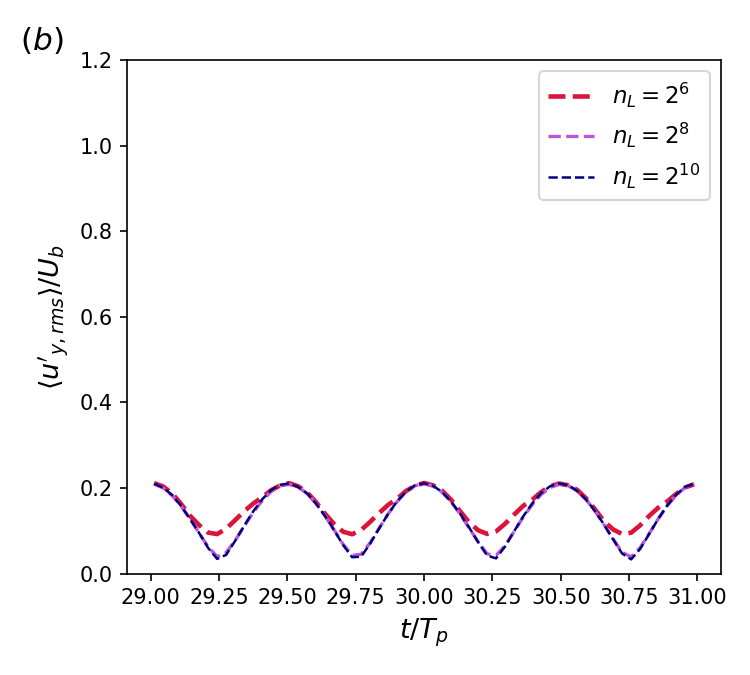
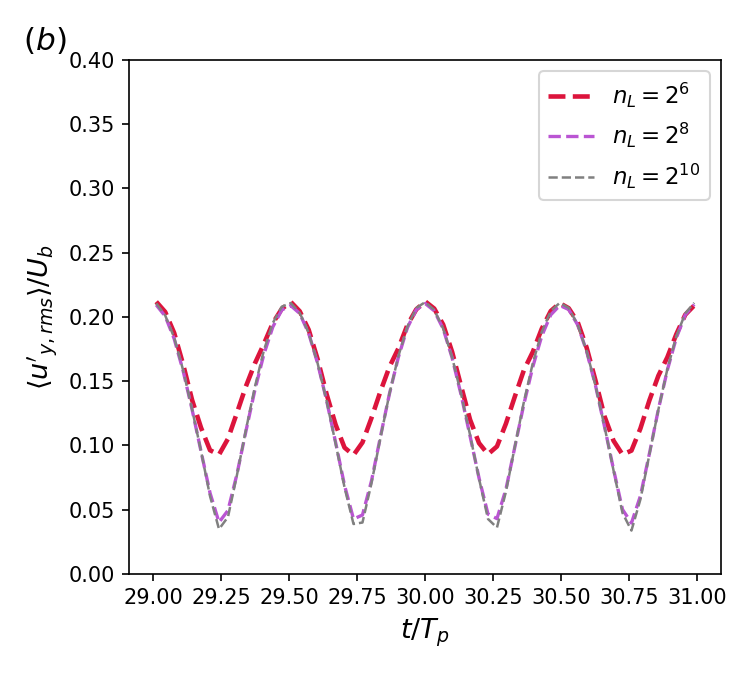
fix(figA16): L10 color should be grey (Kim's convention), panel (b) y-axis 0-0.4
User caught both by comparing against the actual paper figure, not from
memory. Rendered experiments/kimetal2024/Figures/Fig_append1.pdf directly
to confirm: n_L=2^10 is grey in Kim's own legend (this script used navy);
panel (b) uses y in [0, 0.4], not [0, 1.2] like panel (a). Also noted
Fig_resol_vel.pdf is a different figure entirely (same axis labels,
different window/scale) -- easy to grab by mistake.

Claude-Session: https://claude.ai/code/session_01YAKLKMs5oUYu8r6RenvudK

diff --git a/scripts/plot_figA16_current.py b/scripts/plot_figA16_current.py
@@ -31,6 +31,15 @@ this agreement is not proof the restart is bias-free here, just that if
 there is a bias, it isn't large enough to break convergence at this
 particular quantity/window.
 
+Colors/axes matched directly against Kim's own Fig. A.16
+(experiments/kimetal2024/Figures/Fig_append1.pdf, not Fig_resol_vel.pdf --
+a different figure with the same axis labels but a different window/
+scale, easy to mix up): n_L=2^10 is GREY in Kim's own legend, not the
+navy this script used until 2026-09-04 (2); panel (b)'s y-axis is
+0-0.4, not 0-1.2 (only panel (a) uses 0-1.2) -- both caught by the user
+comparing this script's output against the actual PDF, not just against
+memory of what the original replica looked like.
+
 Usage:
     uv run python scripts/plot_figA16_current.py
 """
@@ -73,14 +82,16 @@ t6, ux6, uy6 = load(L6_RUN)
 t8, ux8, uy8 = load(L8_RUN)
 t10, ux10, uy10 = load(L10_RUN)
 
+PANEL_YLIM = {"a": (0.0, 1.2), "b": (0.0, 0.4)}  # matches Kim's Fig. A.16 exactly (Fig_append1.pdf)
+
 for comp, u6, u8, u10, letter in [("x", ux6, ux8, ux10, "a"), ("y", uy6, uy8, uy10, "b")]:
     fig, ax = plt.subplots(figsize=(5.0, 4.5))
     ax.plot(t6, u6, color="crimson", lw=2.2, ls="--", label=r"$n_L=2^6$")
     ax.plot(t8, u8, color="mediumorchid", lw=1.6, ls="--", label=r"$n_L=2^8$")
-    ax.plot(t10, u10, color="navy", lw=1.2, ls="--", label=r"$n_L=2^{10}$")
+    ax.plot(t10, u10, color="gray", lw=1.2, ls="--", label=r"$n_L=2^{10}$")
     ax.set_xlabel(r"$t/T_p$", fontsize=13)
     ax.set_ylabel(rf"$\langle u'_{{{comp},rms}}\rangle/U_b$", fontsize=13)
-    ax.set_ylim(0.0, 1.2)
+    ax.set_ylim(*PANEL_YLIM[letter])
     ax.legend(fontsize=11, loc="upper right")
     ax.text(-0.18, 1.02, rf"$({letter})$", transform=ax.transAxes, fontsize=15, style="italic")
     fig.tight_layout()
